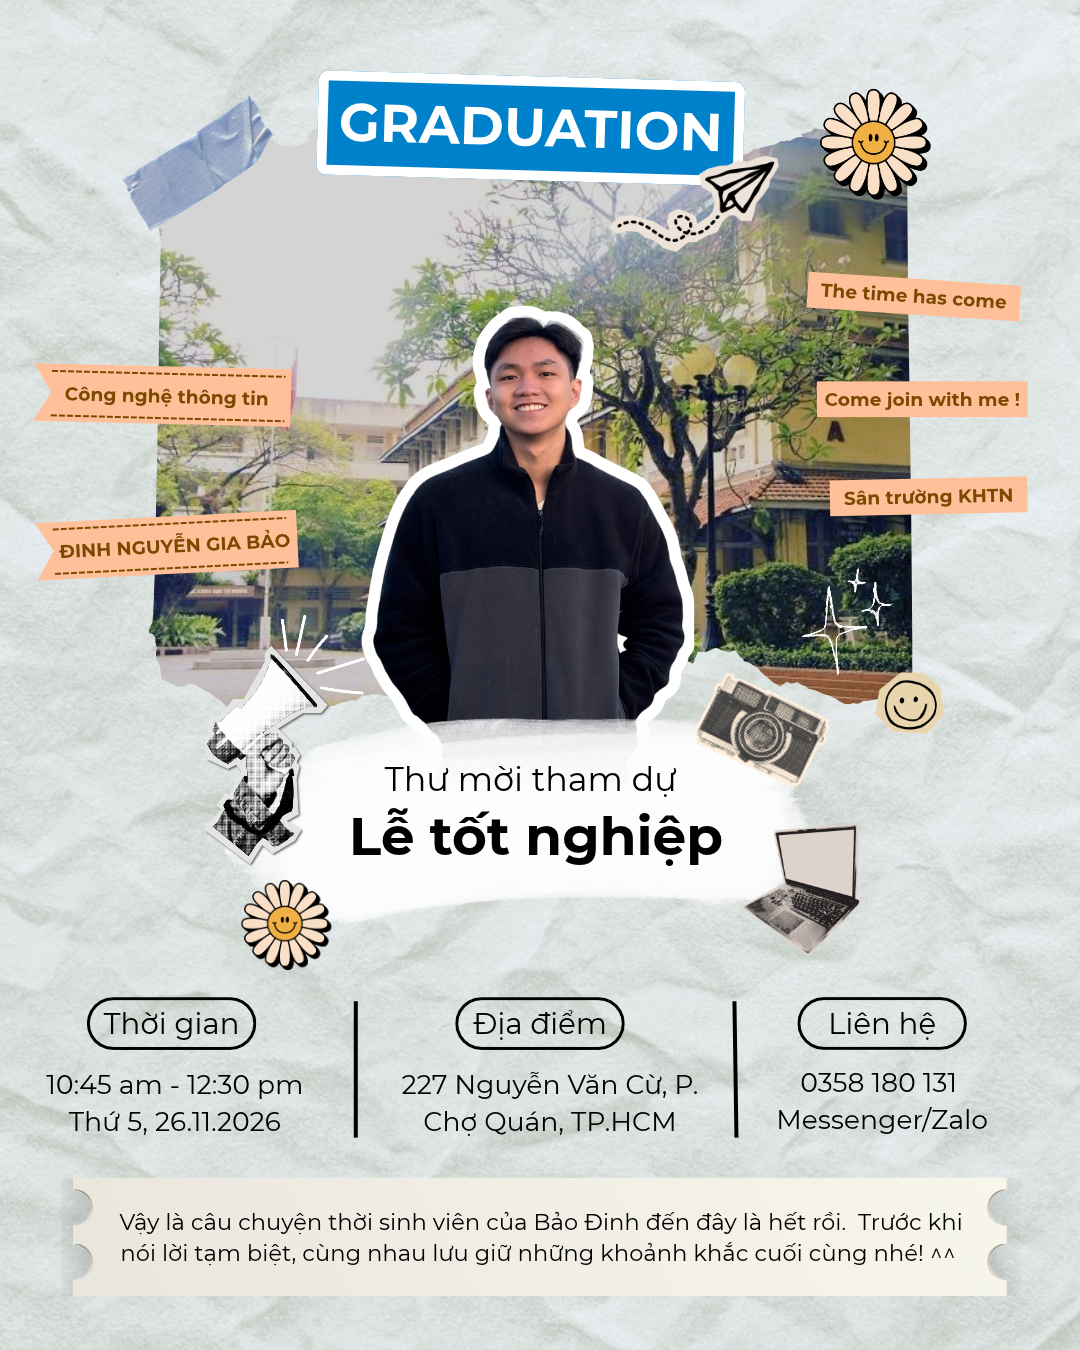
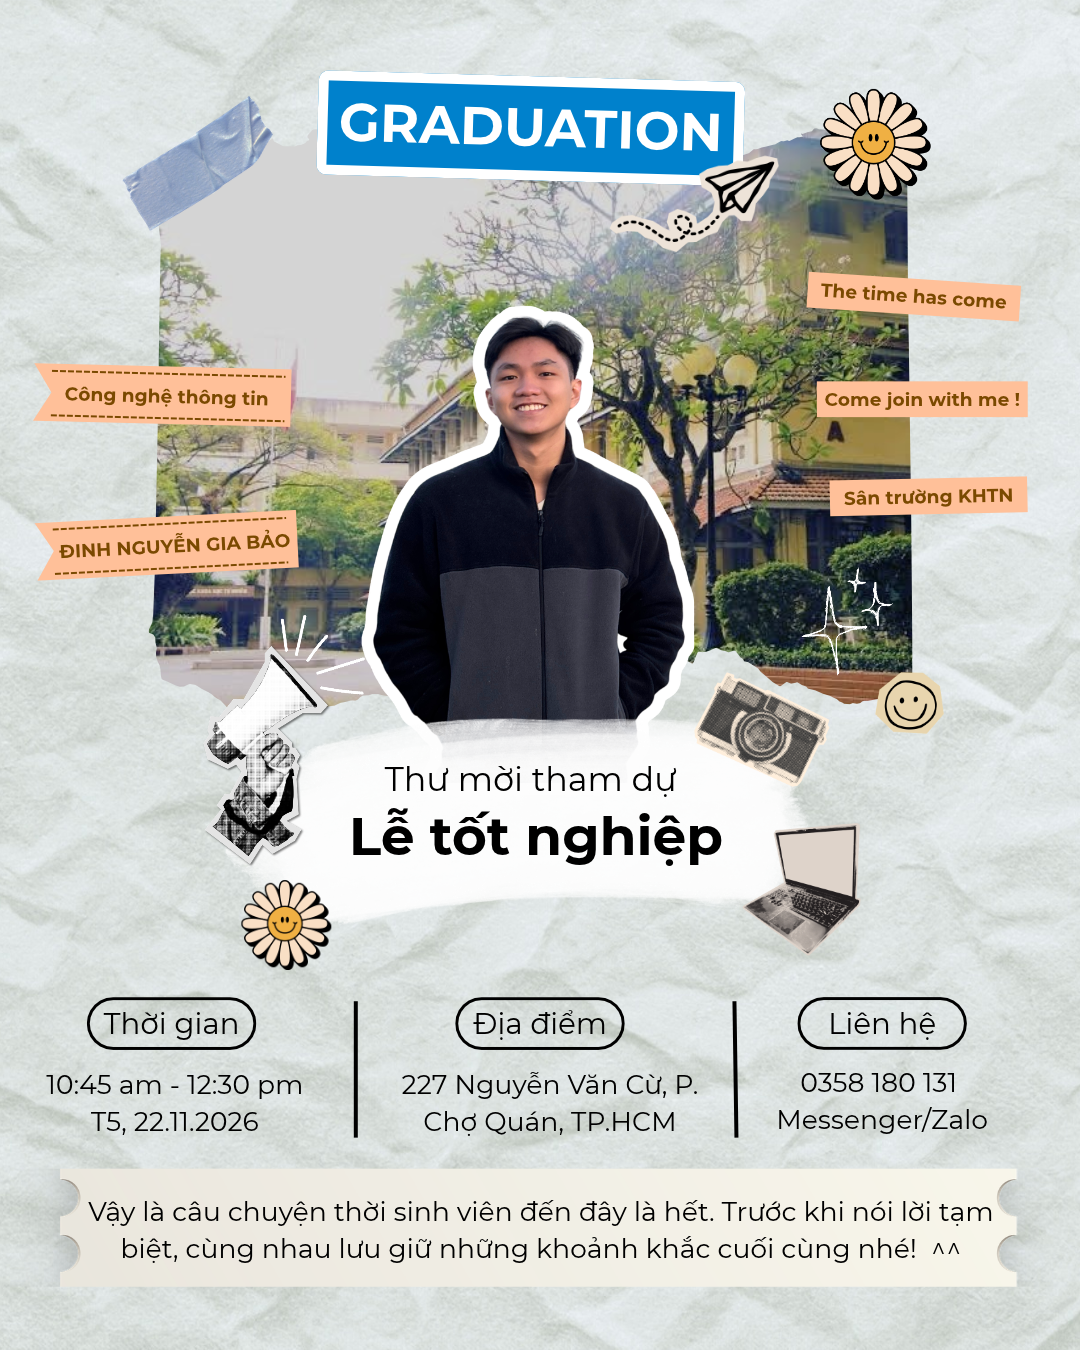
Add form to web

Changed region(s): [[0.0611, 0.84, 0.9472, 0.9644], [0.0611, 0.8089, 0.2444, 0.84]]

diff --git a/src/components/Section1Intro.jsx b/src/components/Section1Intro.jsx
@@ -31,7 +31,7 @@ export default function Section1Intro({ selectedOption, setSelectedOption }) {
       timeText: '10:45 am - 12:30 pm',
       location: 'Sân trường KHTN - 227 Nguyễn Văn Cừ, Q.5',
       image: 'graduation_02.png',
-      caption: '"Khoảnh khắc ấm cúng cùng Khoa CNTT!"',
+      caption: '"Miss the first chance? Don\'t worry!"',
       badge: 'Lễ Khoa CNTT'
     }
   ];
@@ -440,7 +440,9 @@ export default function Section1Intro({ selectedOption, setSelectedOption }) {
             </a>
 
             <a
-              href="#part3"
+              href="https://forms.gle/LQg2tY2oQudgYyFXA"
+              target="_blank"
+              rel="noopener noreferrer"
               onClick={() => sound.playPop()}
               className="px-5 py-2.5 rounded-xl bg-rose-500 hover:bg-rose-400 text-white font-bold text-xs sm:text-sm flex items-center gap-2 shadow-lg transition-transform hover:scale-105"
             >
